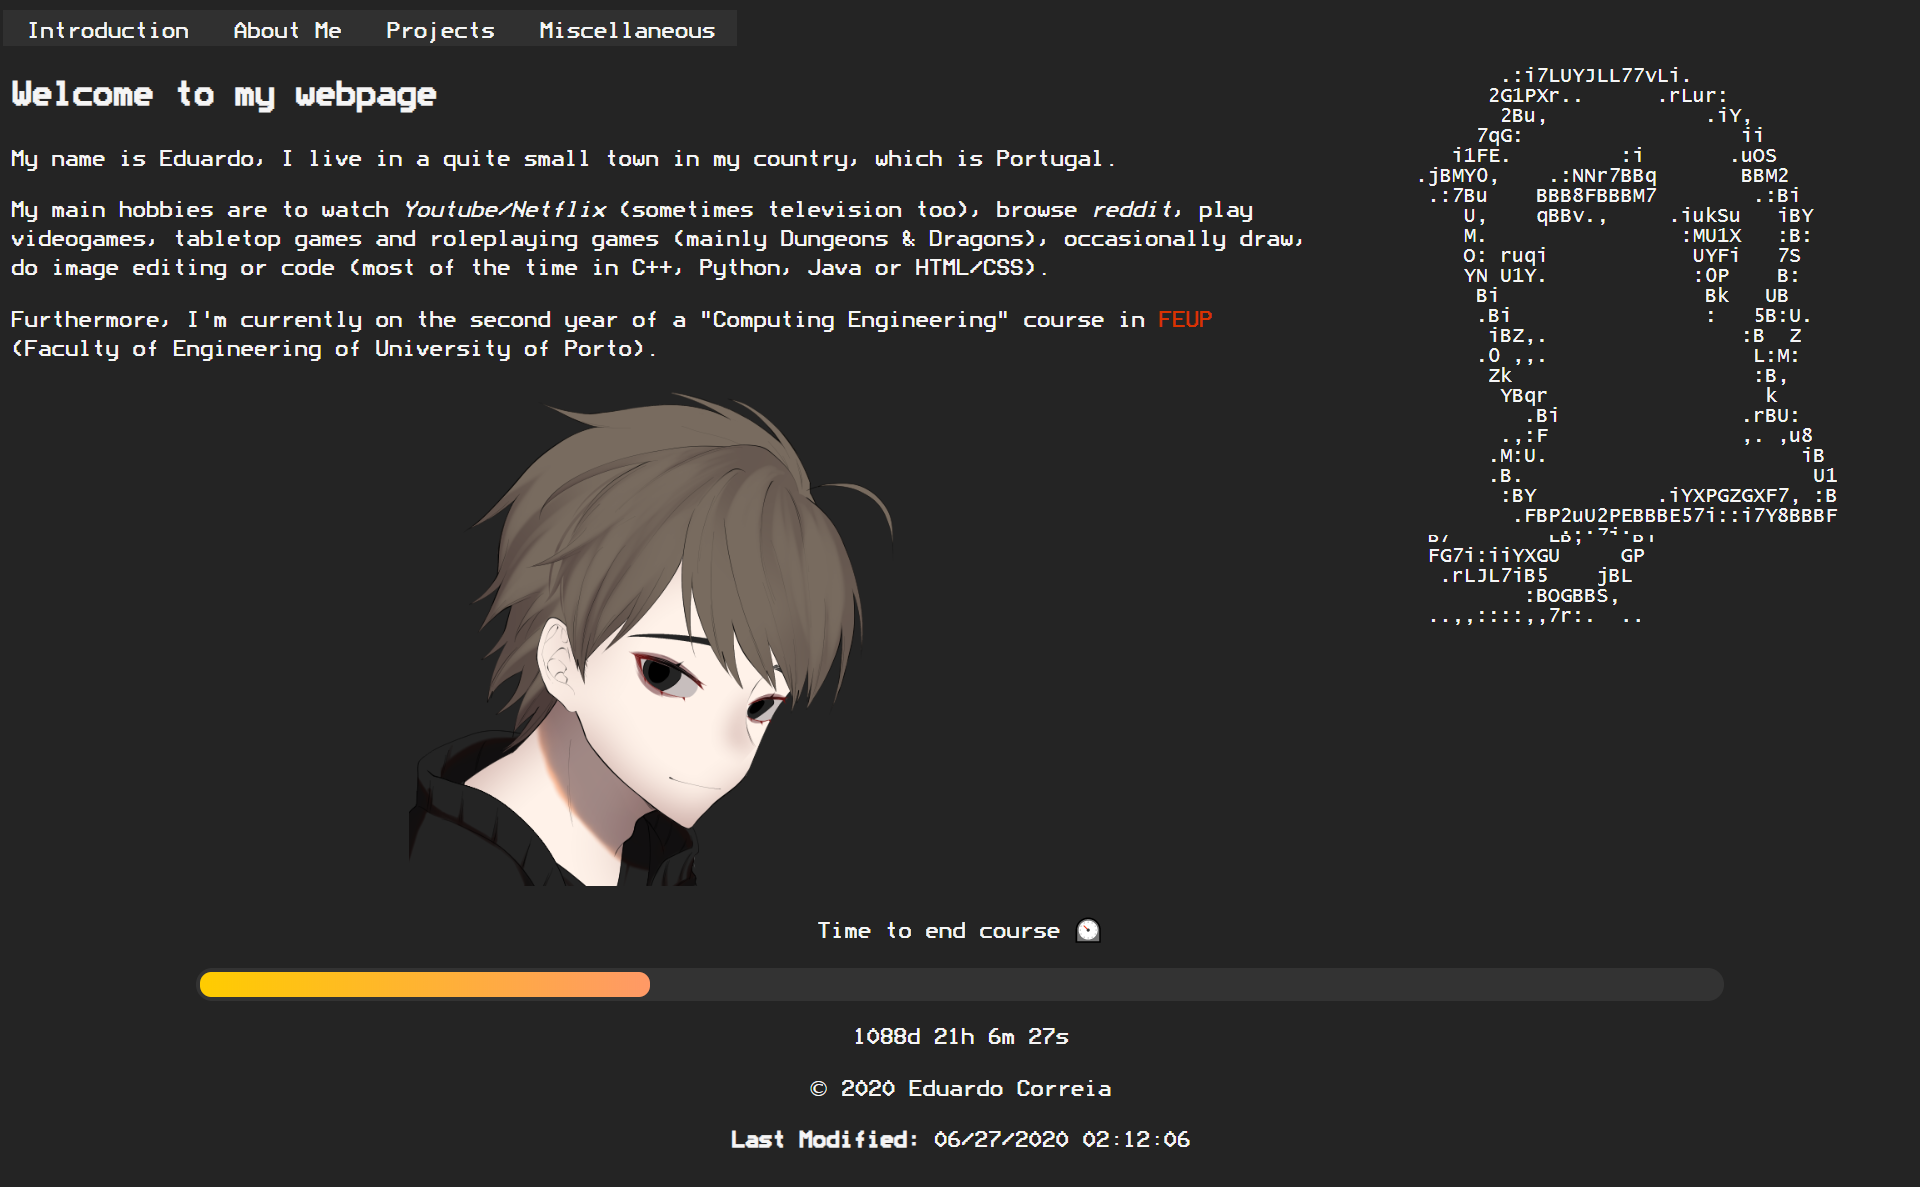
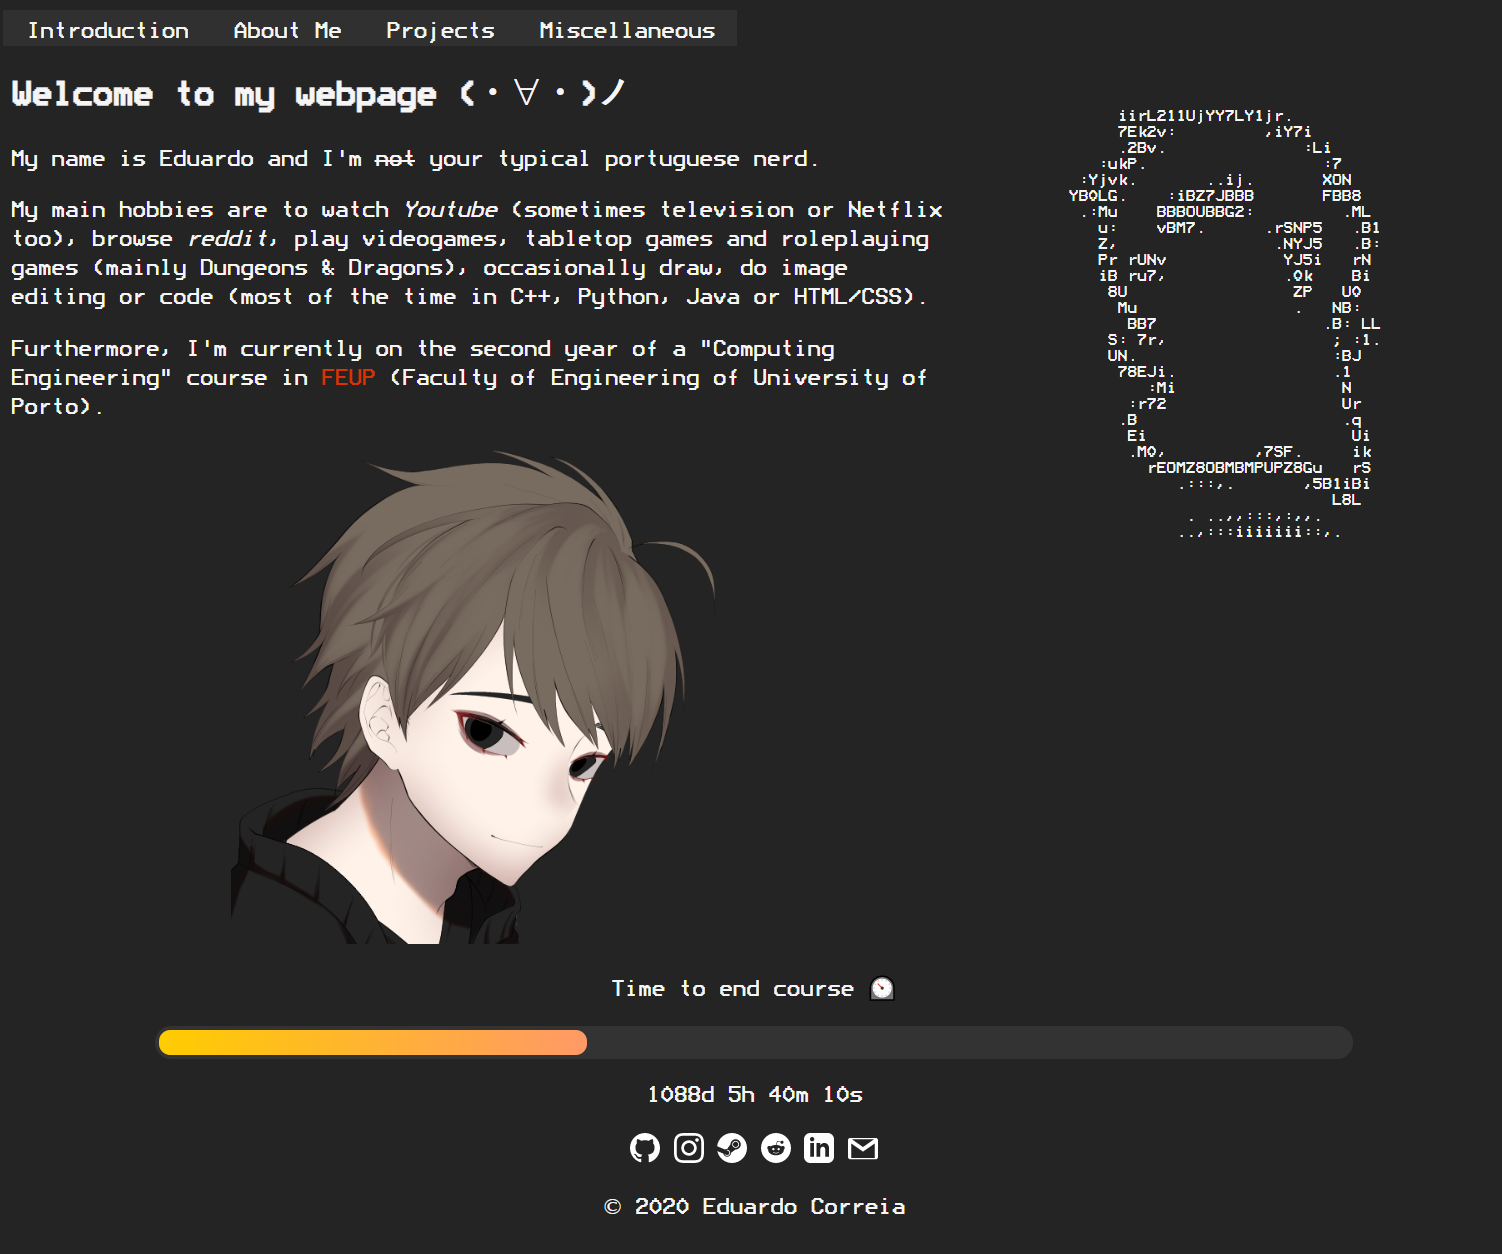
Added frames to miscellaneous page

diff --git a/index.html b/index.html
@@ -23,11 +23,11 @@
         </div>
 
         <div>
-            <h2>Welcome to my webpage <a id="kaomoji"></a></h2>
+            <h1>Welcome to my webpage <span id="kaomoji"></span></h1>
 
             <p>My name is Eduardo and I'm <del>not</del> your typical portuguese nerd.</p>
             
-            <p>My main hobbies are to watch <i>Youtube</i> (sometimes television or Netflix too), browse <i>reddit</i>, play videogames, tabletop games and roleplaying games (mainly Dungeons & Dragons), occasionally draw, do image editing or code (most of the time in C++, Python, Java or HTML/CSS).</p>
+            <p>My main hobbies are to watch <i>Youtube</i> (sometimes television or <i>Netflix</i> too), browse <i>reddit</i>, play videogames, tabletop games or roleplaying games (mainly <i>Dungeons & Dragons</i>), occasionally draw, do image editing or code (most of the time in <b>C++</b>, <b>Python</b>, <b>Java</b> or <del>the Holy Trinity</del> <b>HTML</b>/<b>CSS</b>/   <b>Javascript</b>).</p>
             
             <p>Furthermore, I'm currently on the second year of a "Computing Engineering" course in <a href="https://sigarra.up.pt/feup/pt/web_page.inicial" target="_blank" style="text-decoration:none">FEUP</a> (Faculty of Engineering of University of Porto).</p>
         </div>
@@ -58,6 +58,8 @@
             <a href="https://www.instagram.com/educorreia932/"><img src="img/Social Media Icons/Instagram.svg" /></a>
             <a href="https://steamcommunity.com/id/Skelozard/"><img src="img/Social Media Icons/Steam.svg" /></a>
             <a href="https://www.reddit.com/user/Skelozard1"><img src="img/Social Media Icons/Reddit.svg" /></a>
+            <a href="https://www.linkedin.com/in/eduardo-correia-7a608216a/"><img src="img/Social Media Icons/LinkedIn.svg" /></a>
+            <a href="mailto:educorreia932@gmail.com"><img src="img/Social Media Icons/Gmail.svg" /></a>
         </div>
 
         <!-- Footer -->

diff --git a/miscellaneous.html b/miscellaneous.html
@@ -3,9 +3,12 @@
     <head>
         <title>Educorreia932's Homepage</title>
         <link rel="stylesheet" type="text/css" href="style/new.css">
+        <link rel="stylesheet" type="text/css" href="style/miscellanous.css">
+        <link rel="icon" href="img/Avatar.png">
+        <script src="scripts/kaomoji.js"></script>
     </head>
     
-    <body>
+    <body onload="changecontent(); display_kaomoji('bear')">
         <!-- Header -->
         <div class="header">
             <p class="tab" onclick="location.href='index.html'">Introduction</p>
@@ -14,7 +17,24 @@
             <p class="tab" onclick="location.href='miscellaneous.html'">Miscellaneous</p>
         </div>
 
-        <a href="stone-of-golorr.html">Stone of Golorr Properties</a>
+        <!-- ASCII Animation -->
+        <div id="ascii-display" class="unselectable">
+            <script id="ascii-art" src="gif/1060.js" ></script>
+        </div>
+
+        <h1>Divers hyperlinks spoil <span id="kaomoji"></span></h1>
+
+        <div class="frame">
+            <h2><a href="stone-of-golorr.html">Stone of Golorr Properties</a></h2>
+            <iframe src="stone-of-golorr.html" height="300" frameBorder="0"></iframe><br>
+        </div>
+
+        <br>
+
+        <div class="frame">
+            <h2><a href="list-of-games.html">List of Games Played</a></h2>
+            <iframe src="list-of-games.html" height="300" frameBorder="0"></iframe><br>
+        </div>
 
         <!-- Footer -->
         <div id="footer">

diff --git a/projects.html b/projects.html
@@ -7,7 +7,7 @@
         <script type="text/javascript" src="scripts/progressbar.js"></script>
     </head>
     
-    <body>
+    <body onload="changecontent(); display_kaomoji('writing')">
         <!-- Header -->
         <div class="header">
             <p class="tab" onclick="location.href='index.html'">Introduction</p>
@@ -21,6 +21,8 @@
             <script id="ascii-art" src="gif/1024.js" ></script>
         </div>
 
+        <h1>My own creations</h1>
+
         <h2>Personal</h2>
         <p>Teacher Bot</p>
         <p>Pokémon Origins</p>
@@ -29,6 +31,7 @@
         <h2>College</h2>
         <p>LPOO - Pokémon</p>
         <p>CAL - TourMateApp</p>
+        <p>CGRA - McDelivery</p>
         <p>LCOM - Project Watt</p>
 
         <h2>Game Jams</h2>

diff --git a/about-me.html b/about-me.html
@@ -21,7 +21,7 @@
             <script id="ascii-art" src="gif/1017.js" ></script>
         </div>
     
-        <h2>A little more about me <a id="kaomoji"></a></h2>
+        <h1>A little more about me <span id="kaomoji"></span></h1>
 
         <div>
             <h3><a href="visited-places.html">Visited countries</a> (in order) 🌍</h3>

diff --git a/gif/1060.js b/gif/1060.js
@@ -40,4 +40,3 @@ setTimeout("changecontent()",delay)
 }
 if (ie4||DOM2)
 document.write('<div id="fscroller"></div>')
-window.onload=changecontent

diff --git a/style/miscellanous.css b/style/miscellanous.css
@@ -1,0 +1,5 @@
+/* Frame */
+
+iframe {
+    width: 50%;
+}

diff --git a/README.md b/README.md
@@ -1,5 +1,11 @@
-# Educorreia932.github.io
+# Educorreia932's Homepage
 
-My own personal site using *GitHub Pages* to host it
+The source files for my website, being hosted using Github Pages.
+
+## Preview
 
 ![Preview](preview.png)
+
+## Old Version
+
+![Old Preview](old_preview.png)
